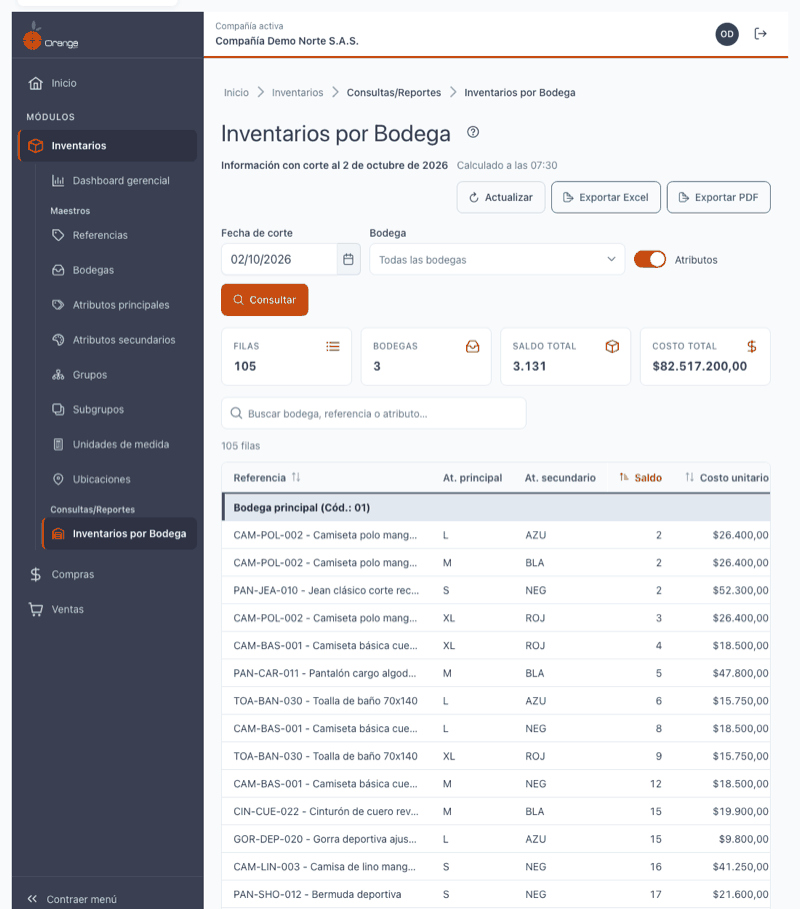
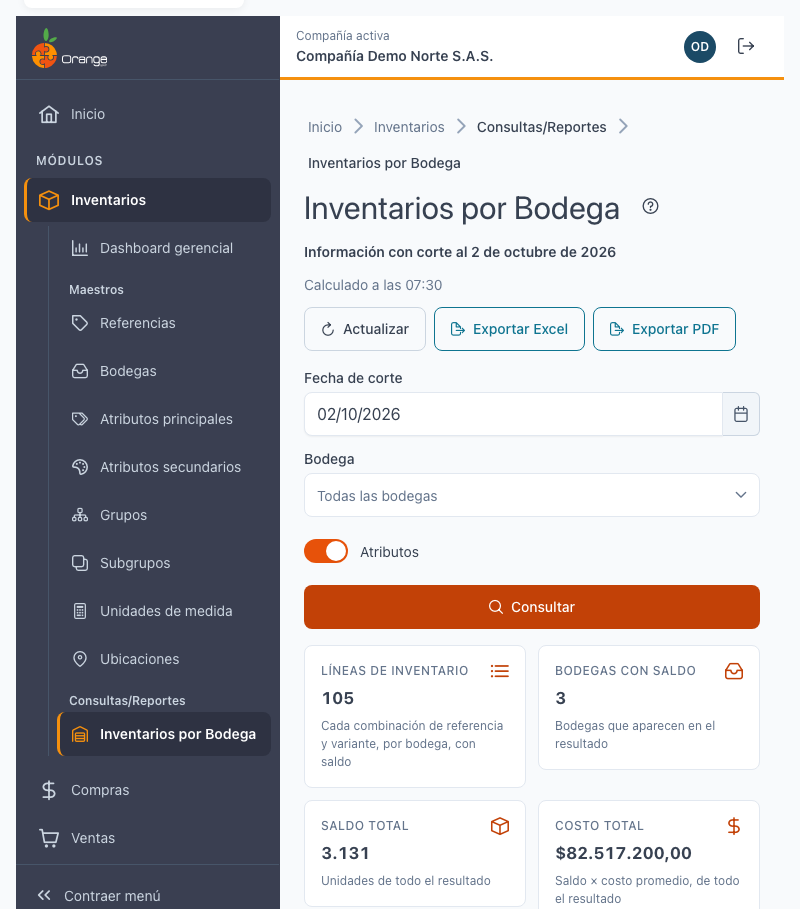
docs(inventarios): manual de Inventarios por Bodega con las tarjetas según el modo y capturas nuevas

diff --git a/v2026/inventarios/consultas/inventario-por-bodega.md b/v2026/inventarios/consultas/inventario-por-bodega.md
@@ -64,7 +64,14 @@ Si escribe una fecha futura o mal formada, el campo marca el error y no se consu
 
 ![Resultado con atributos](../recursos/img/inventario-por-bodega/02-con-atributos.png)
 
-1. **Tarjetas de resumen:** filas, bodegas, saldo total y costo total de **todo** lo que cumple los filtros, no solo de la página que ve.
+1. **Tarjetas de resumen:** cuatro tarjetas con cifras de **todo** lo que cumple los filtros, no solo de la página que ve. Cada una trae una aclaración debajo del número:
+   - **Líneas de inventario** (con atributos): cada combinación de referencia y variante, por bodega, con saldo.
+   - **Referencias por bodega** (sin atributos): cada referencia cuenta una vez por bodega, con saldo.
+   - **Bodegas con saldo:** bodegas que aparecen en el resultado.
+   - **Saldo total:** unidades de todo el resultado.
+   - **Costo total:** saldo × costo promedio, de todo el resultado.
+
+   La primera tarjeta cambia de nombre según el modo de la consulta **ya ejecutada**: si mueve el interruptor **Atributos** pero aún no pulsa **Consultar**, conserva el nombre del resultado que está viendo.
 2. **Totales dentro de la tabla:** no hay un panel de totales aparte. Cada bodega aparece como un grupo: un encabezado **Nombre (Cód.: 01)**, sus líneas y una fila **TOTAL BODEGA - nombre (Cód.: código)**. Al final de la consulta aparece la fila **TOTAL GENERAL**. El saldo suma unidades de medida distintas, por eso es una referencia de volumen y no una cifra contable.
 3. **Total general siempre visible:** una barra fija al pie de la tabla muestra el **TOTAL GENERAL** de todo el filtro, sin importar en qué página esté.
 4. **Bodega que continúa:** si una bodega no cabe en una página, la página siguiente abre con su encabezado seguido de **(continúa)**. El **TOTAL BODEGA** aparece al terminar la bodega y suma **toda** la bodega, no solo las líneas de esa página.
